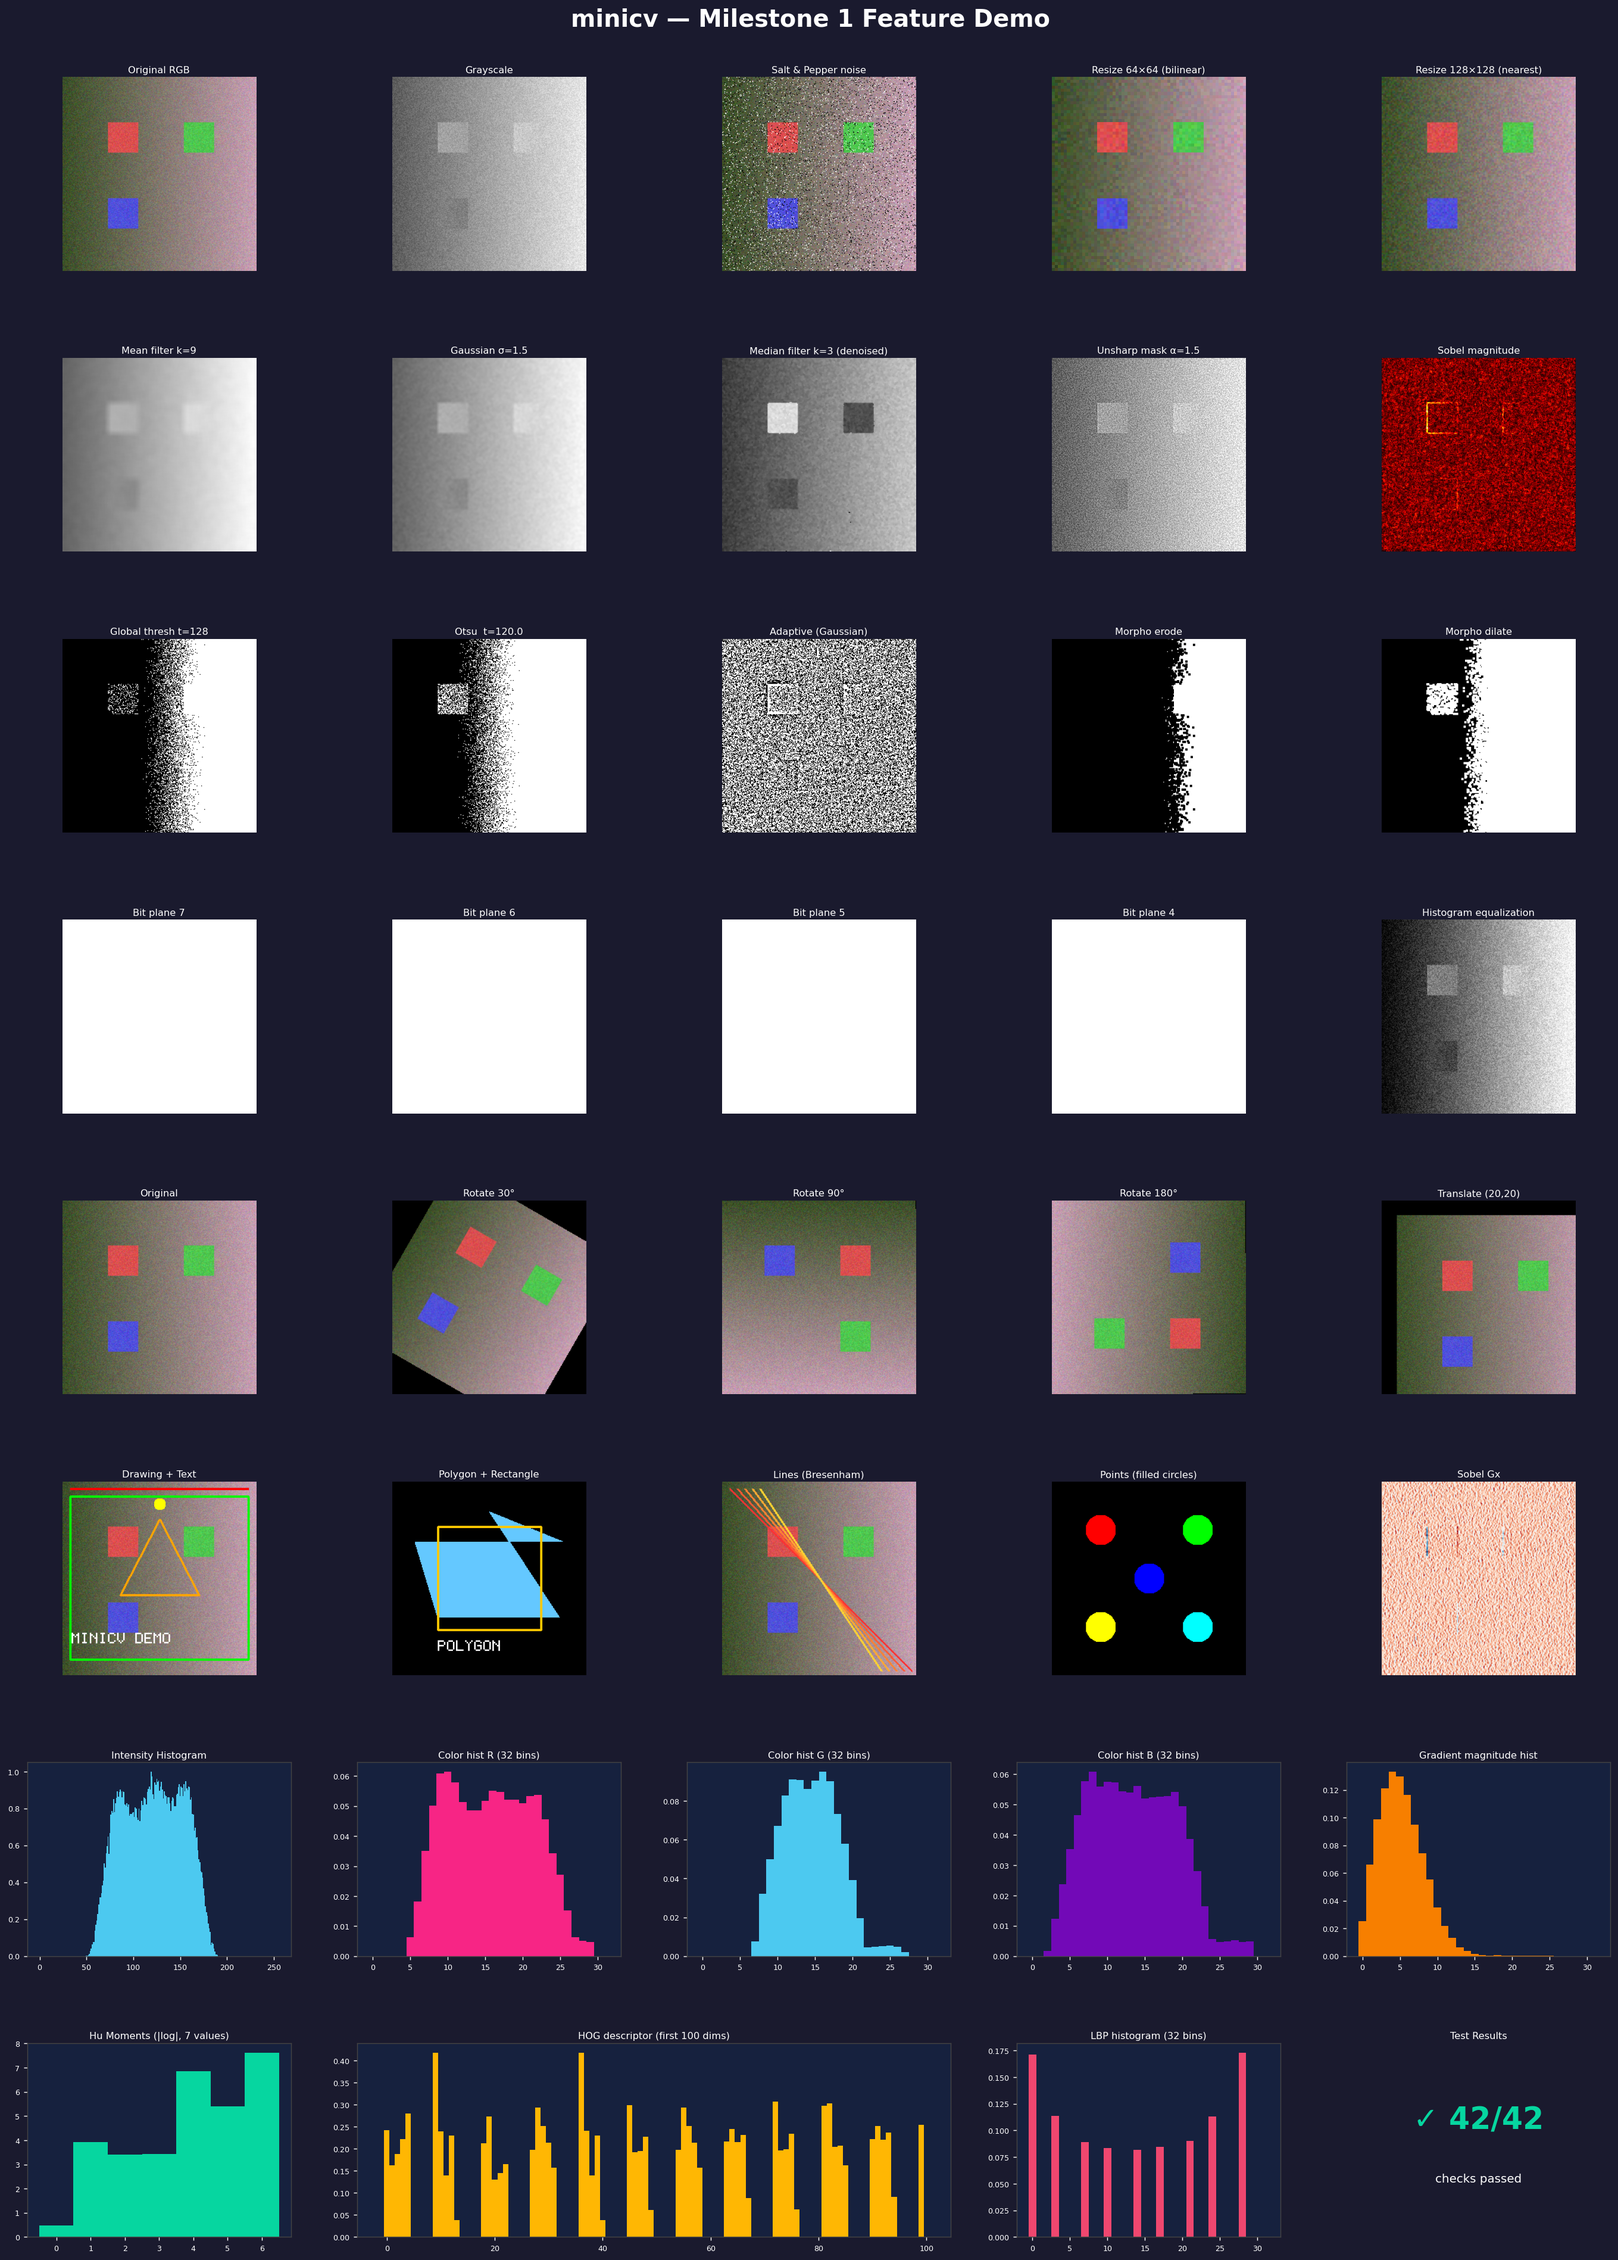
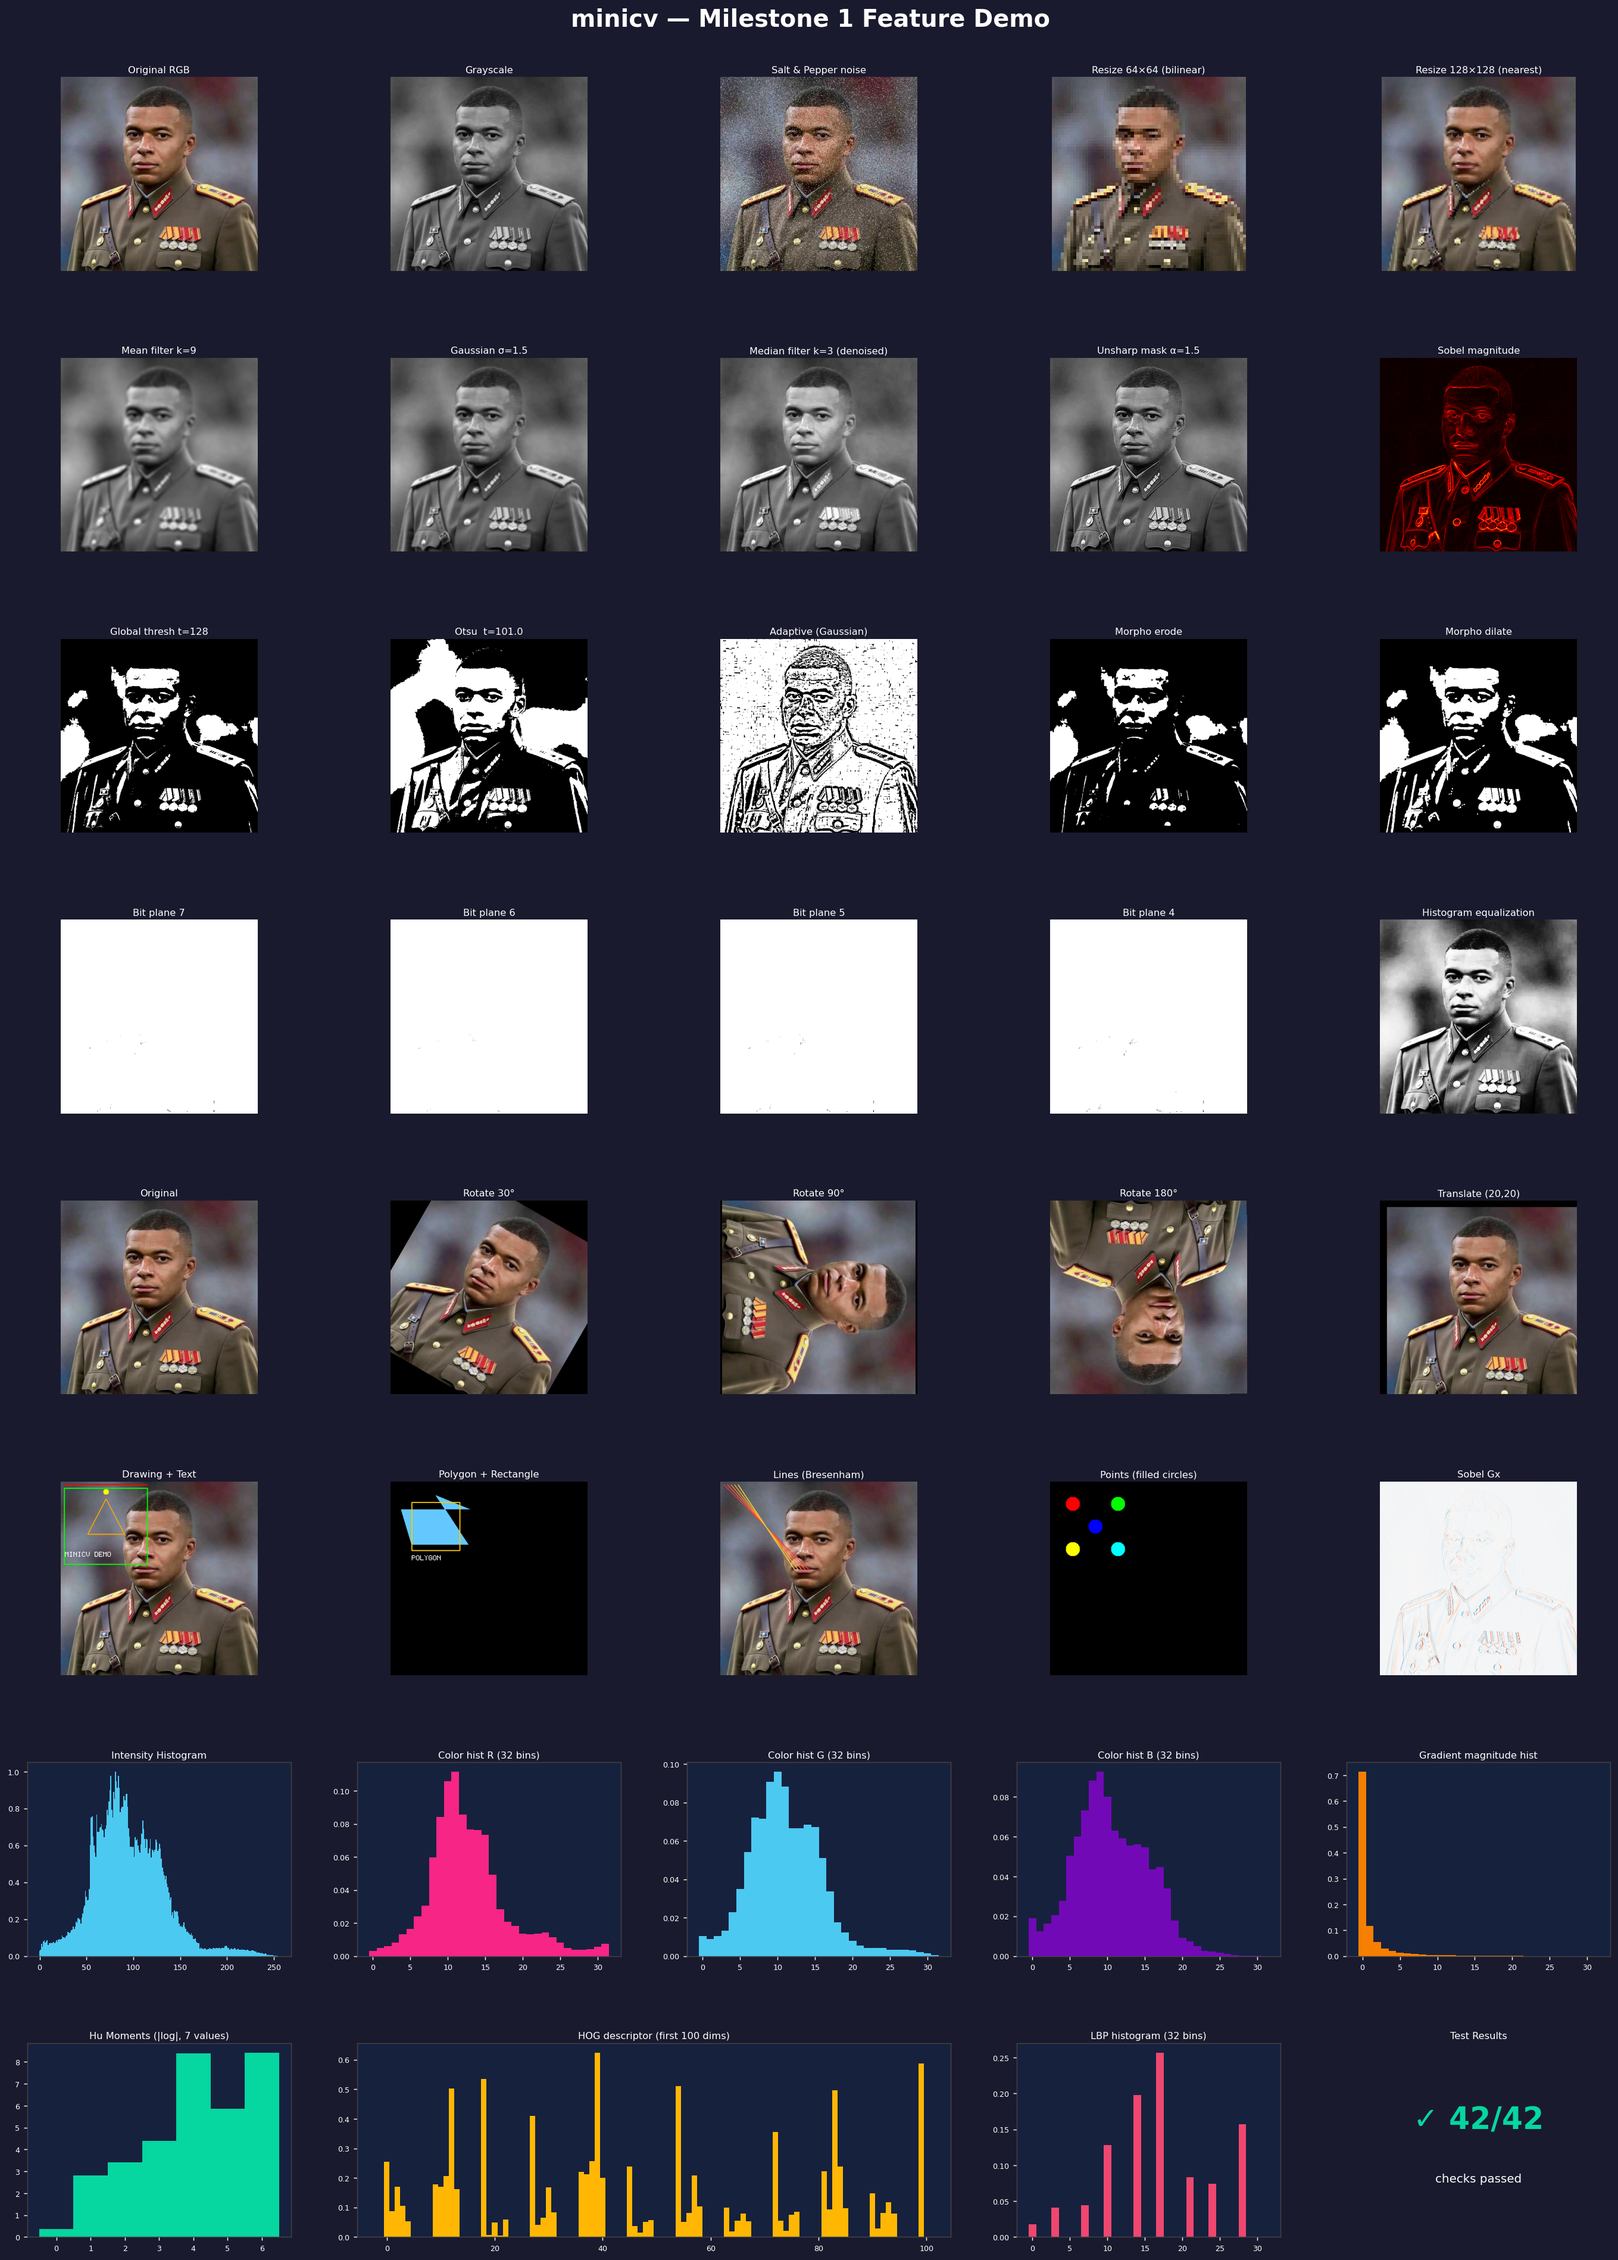
Load real image and update preprocessing
Replace procedurally generated test image with an external image file read via cv.read_image, derive H/W from the loaded image, and compute grayscale from that image. Move RNG initialization and recreate the salt-and-pepper noisy version from the real image; remove the earlier synthetic gradient, colored squares, and added Gaussian noise. Also update the demo output image (demo_output.png) to reflect these changes. Note: the image path is currently hardcoded and may need to be parameterized for portability.

diff --git a/milestone1/demo.py b/milestone1/demo.py
@@ -39,35 +39,19 @@ def check(name, condition):
 # ─────────────────────────────────────────────────────────────────────────────
 # BUILD A SYNTHETIC "NATURAL-LOOKING" TEST IMAGE
 # ─────────────────────────────────────────────────────────────────────────────
+img_rgb = cv.read_image(r"D:\ASU\spring 26\vision\project\download (4).jpg")   # or .jpg
+H, W = img_rgb.shape[:2]
+
+img_gray_f = cv.rgb_to_gray(img_rgb)
+img_gray   = (img_gray_f * 255).astype(np.float32)
+
+# recreate the salt-and-pepper version from your image
 rng = np.random.default_rng(42)
-
-H, W = 256, 256
-# Base gradient
-img_rgb = np.zeros((H, W, 3), dtype=np.uint8)
-for c, (lo, hi) in enumerate([(60,200), (80,160), (40,180)]):
-    channel = np.linspace(lo, hi, W, dtype=np.float32)
-    img_rgb[:, :, c] = np.broadcast_to(channel, (H, W)).astype(np.uint8)
-
-# Add some shapes
-img_rgb[60:100, 60:100]  = [220, 80,  80]   # red square
-img_rgb[60:100, 160:200] = [80,  200, 80]   # green square
-img_rgb[160:200,60:100]  = [80,  80,  220]  # blue square
-
-# Add Gaussian noise
-noise = rng.integers(-20, 20, img_rgb.shape)
-img_rgb = np.clip(img_rgb.astype(np.int16) + noise, 0, 255).astype(np.uint8)
-
-# Add salt-and-pepper noise (for median filter demo)
 img_sp = img_rgb.copy()
 sp_mask = rng.random((H, W)) < 0.05
 img_sp[sp_mask] = 255
 sp_mask2 = rng.random((H, W)) < 0.05
 img_sp[sp_mask2] = 0
-
-img_gray_f = cv.rgb_to_gray(img_rgb)          # float32 [0,1]
-img_gray   = (img_gray_f * 255).astype(np.float32)   # [0,255]
-
-
 # ─────────────────────────────────────────────────────────────────────────────
 print(f"\n{BOLD}{'='*60}{RESET}")
 print(f"{BOLD}  minicv Milestone 1 — Feature Demo{RESET}")
